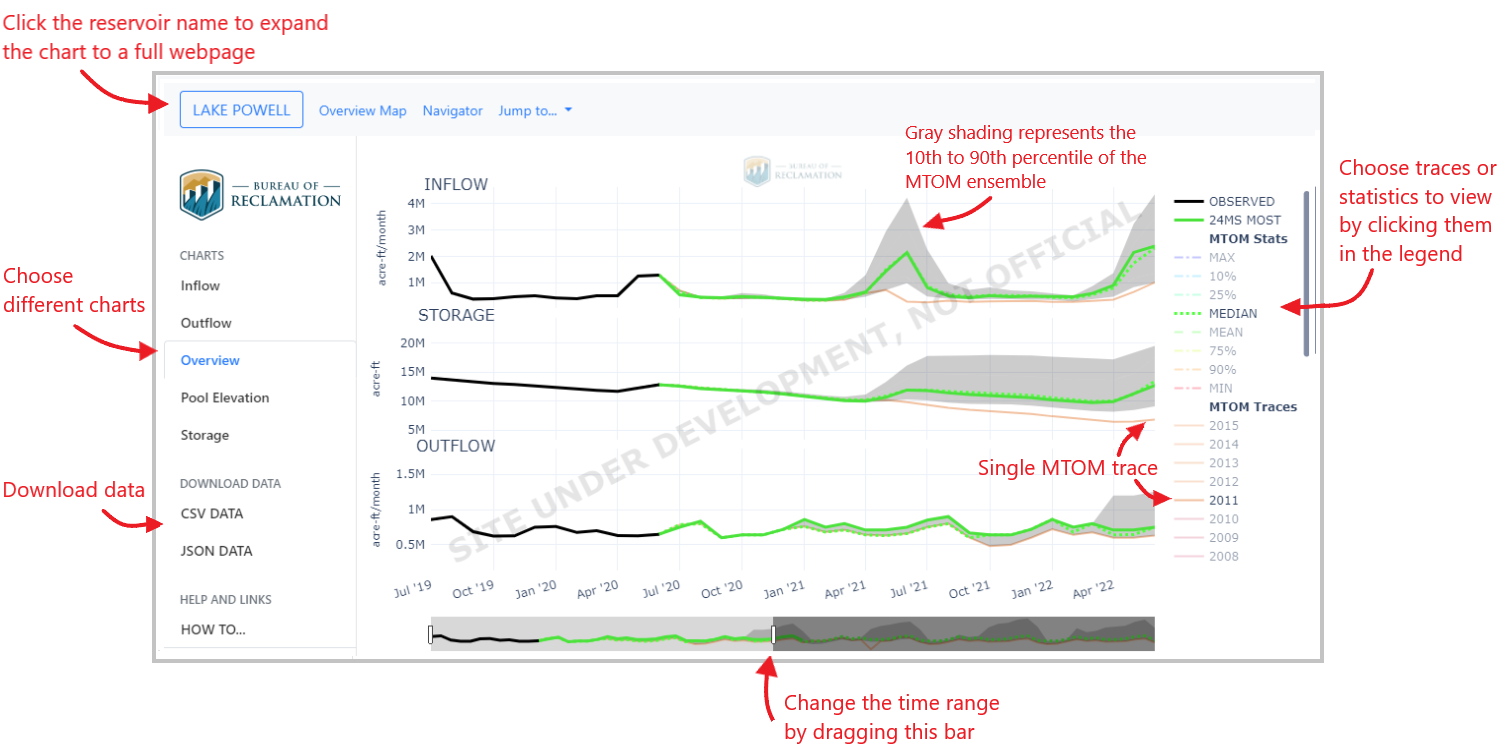
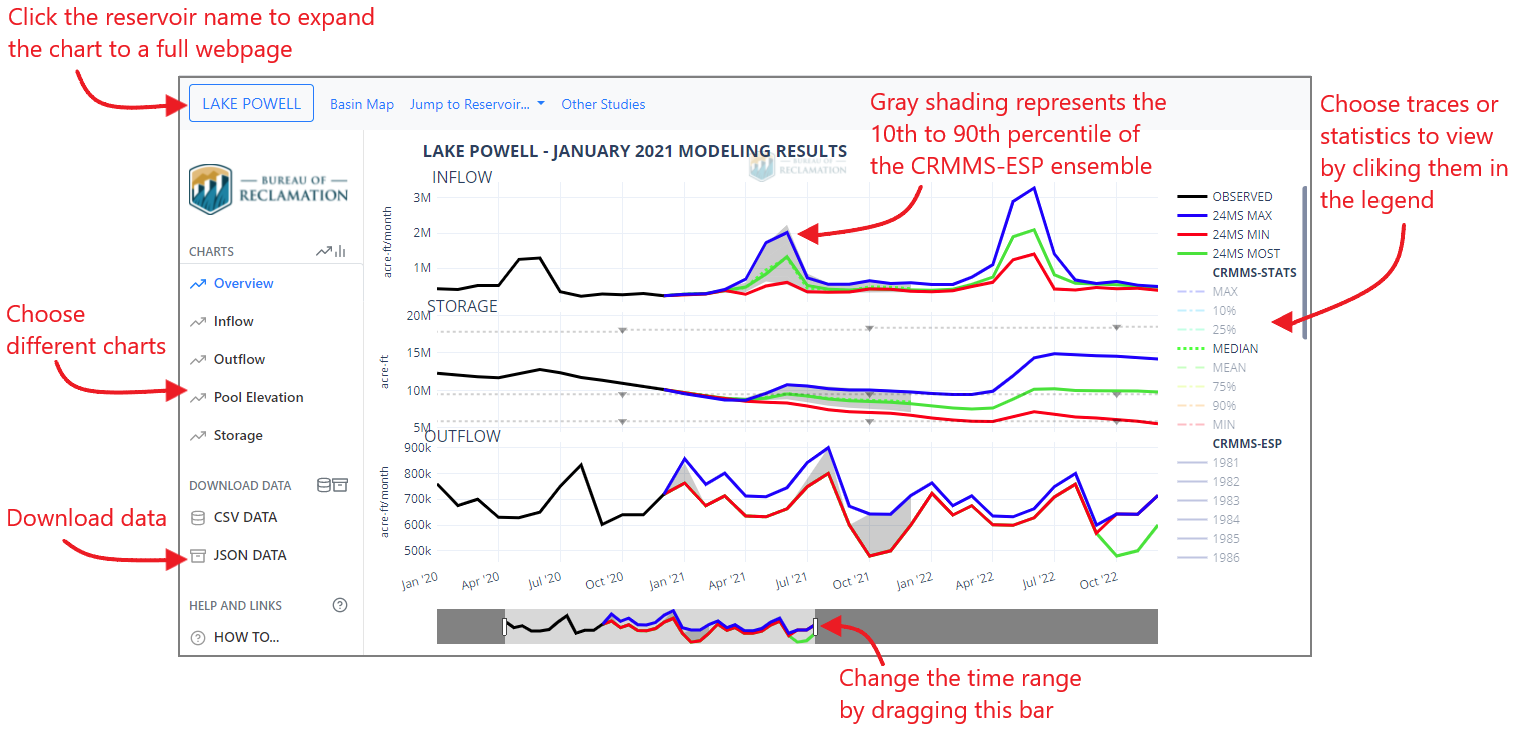
updated how to png, increased size of obs and 24MS MOST traces, changed 24MS min/max to dashdot for better visability when overlayed

diff --git a/crmms_charts.py b/crmms_charts.py
@@ -31,6 +31,18 @@ def get_trace_color(wy, colormap=get_colormap()):
         return f'rgba({c[0] * 255}, {c[1] * 255}, {c[2] * 255}, 0.5)'
     return color_dict.get(wy_str, 'black')
 
+def get_trace_width(wy):
+    wy_str = str(wy)
+    width_dict = {
+        '24MS MOST': 4,
+        '24MS MIN': 3,
+        '24MS MAX': 3,
+        'OBSERVED': 4
+    }
+    if wy_str.isdigit():
+        return 2
+    return width_dict.get(wy_str, 2)
+
 def get_hovertemplate(units):
     hover_dict = {
        'acre-ft': "%{text:,.0f} kaf",#"<br>%{x}",
@@ -75,24 +87,16 @@ def create_wy_traces(df, datatype_name, units, colormap=get_colormap()):
     visible = {True: True, False: 'legendonly'}
     traces = []
     water_years = df.columns.tolist()
-    linetype = 'solid'
+    
     for wy in water_years:
-# TODO: This is for temp removal of next WY for ESP traces
-        # if wy not in show_traces:
-        #     df_temp = df[wy]
-        #     year = df_temp.index[1].year
-        #     df_temp = df_temp[df_temp.index.year == year]
-        # else:
-        #     df_temp = df[wy]
-# TODO: move else statement to only case to revert, delete above, uncomment below
+        linetype = 'dashdot' if str(wy).upper() in ['24MS MIN', '24MS MAX'] else 'solid'
         df_temp = df[wy]
         x_vals = df_temp.index
         y_vals = df_temp.values
         show_trace = visible[wy.upper() in show_traces]
         color = get_trace_color(wy, colormap)
-        width = 2
-        if not str(wy).isdigit():
-            width = 3
+        width = get_trace_width(wy)
+
         if get_chart_type(datatype_name, units) == 'bar':
             trace = bar_trace(
                 x_vals,
@@ -131,18 +135,6 @@ def create_stat_traces(df, datatype_name, units):
     }
     line_types = {'mean': 'dash', '50%': 'dot'}
     traces = []
-#        go.Scatter(
-#            x=[df.index],
-#            y=[df['50%'].values],
-#            name='SHADING',
-#            fill='none',
-#            visible='legendonly',
-#            line=dict(width=0),
-#            hoverinfo='none',
-#            legendgroup='stat_traces',
-#            showlegend=True,
-#        )
-#    ]
 
     df.drop(columns=['count', 'std'], inplace=True)
     cols = df.columns.tolist()
@@ -151,11 +143,6 @@ def create_stat_traces(df, datatype_name, units):
         show_trace = visible[col.lower() in show_traces]
         color = color_dict.get(col, 'rgba(0,0,0,0.3)')
         linetype = line_types.get(col, 'dashdot')
-# TODO: This is for temp removal of next WY for ESP traces
-        # df_temp = df[col]
-        # year = df_temp.index[1].year
-        # df_temp = df_temp[df_temp.index.year == year]
-# TODO: move else statement to only case to revert, delete above, uncomment below
         df_temp = df[col]
         x_vals = df_temp.index
         y_vals = df_temp.values
